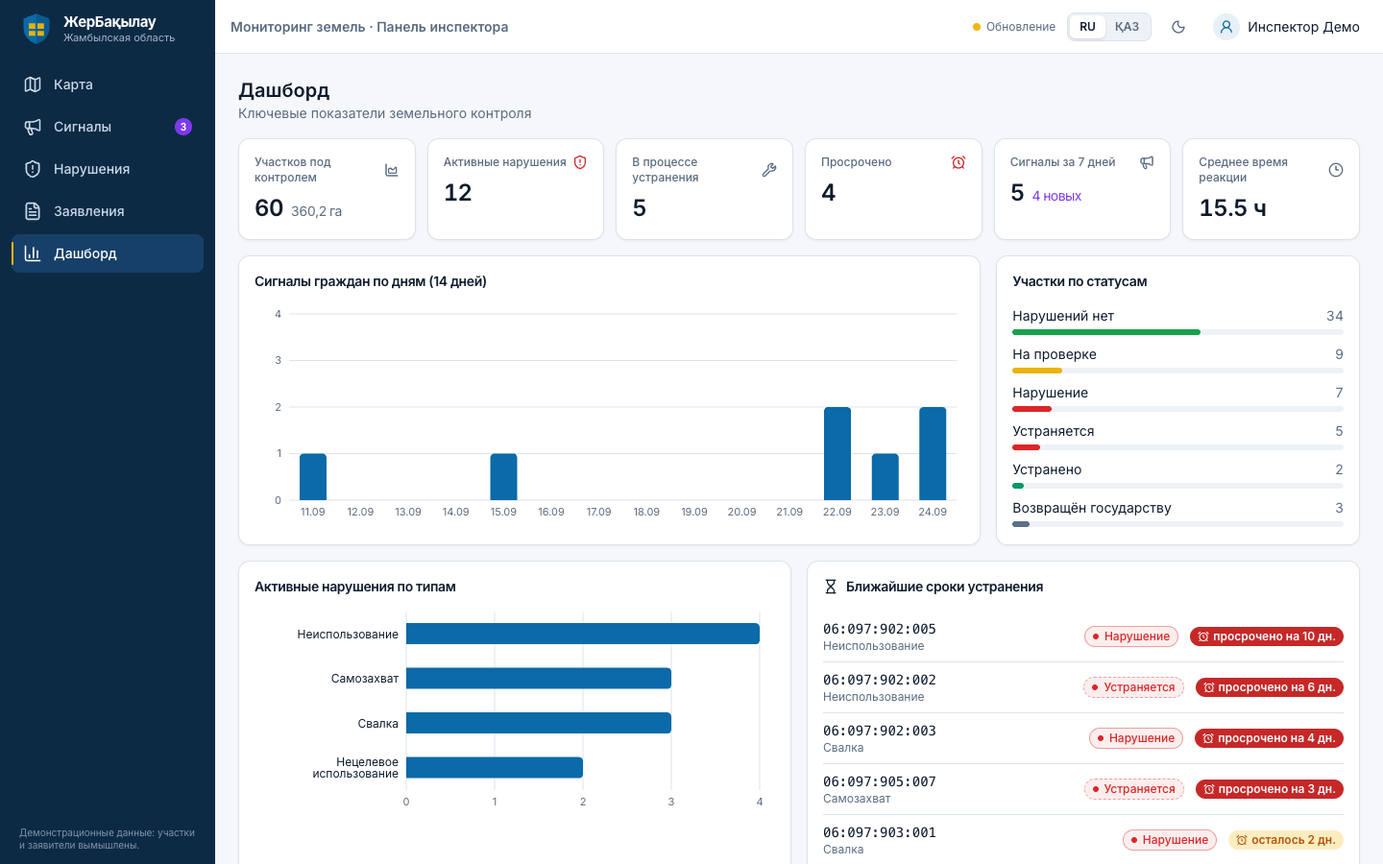
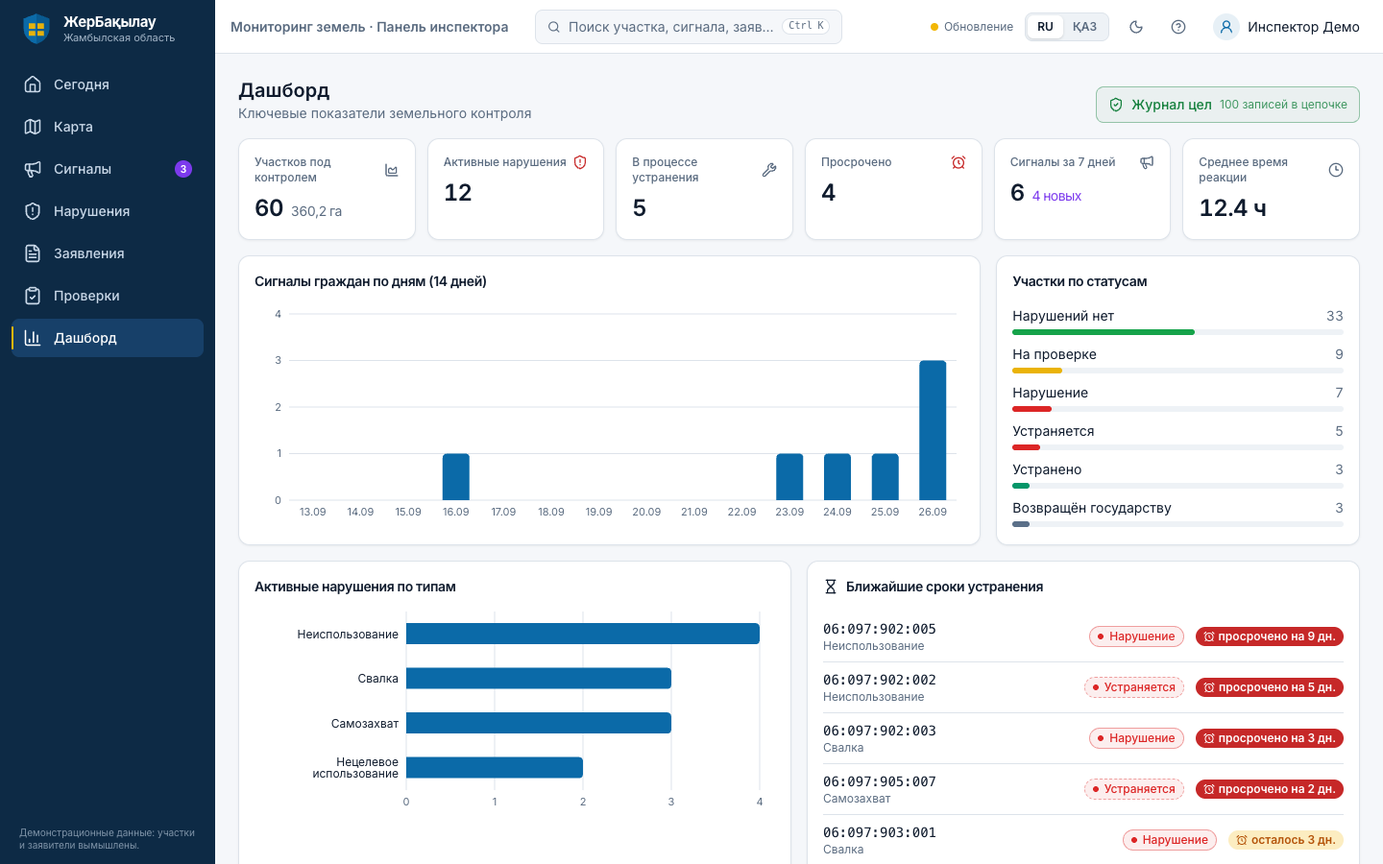
docs: полное описание проекта, план развития и передача проекта
- README: проблема и решение, сквозной цикл, все функции (панель, публичные
  страницы, бот, спутник, антифрод), что реально и что демо, стек, запуск.
- docs/HANDOFF.md: какие доступы и секреты передать, где что работает,
  первый день, деплой, подводные камни, ближайшие задачи.
- docs/ROADMAP.md: отмечено сделанное, этапы пилота обновлены по итогам работы.
- .env.example: PUBLIC_WEB_URL, SATELLITE_PROVIDER, SENTINEL_STAC_URL.
- Свежие скриншоты новых экранов.

diff --git a/docs/ROADMAP.md b/docs/ROADMAP.md
@@ -1,11 +1,25 @@
 # Дорожная карта «ЖерБақылау»
 
-Состояние на 25.09.2026: работающий MVP в проде. Есть панель инспектора (онбординг, «Сегодня», Ctrl+K,
-подсказка «Следующий шаг»), Telegram-бот RU/KZ, сквозной цикл «житель → карта → инспектор → уведомление»,
-PostGIS, PDF-акт и **реальный NDVI по снимкам Sentinel-2 L2A**.
+Состояние на **27.09.2026**: работающий MVP в проде (панель, бот, API). Приоритеты:
+- **P0** — сделать до разговора с госорганом;
+- **P1** — сильные функции для пилота;
+- **P2** — масштаб и продукт.
 
-Приоритеты: **P0** — нужно до разговора с госорганом, **P1** — сильные функции для пилота,
-**P2** — масштаб и продукт. Оценки даны для одного разработчика с Claude Code.
+Оценки даны для одного разработчика с Claude Code.
+
+---
+
+## Уже сделано
+
+| Область | Что есть |
+|---|---|
+| Панель инспектора | «Сегодня», карта с фильтрами и слоями, карточка участка, сигналы, нарушения, заявления, дашборд, туры, справка, Ctrl+K, RU/KZ, тёмная тема |
+| Бот | Статус заявления с подпиской, база знаний (3 процедуры), «Народный контроль» с фото и геолокацией, «Мои обращения», уведомления на языке жителя |
+| Гео | PostGIS: привязка к участку, дубли в 30 м, площади через geography |
+| Спутник | Реальный NDVI Sentinel-2 раз в 6 ч; **история участка за 3 года**, пики по годам, **снимки «до/после»** |
+| Антифрод (владелец) | Фотоотчёт по одноразовой ссылке: только камера, GPS на участке, свежесть, уникальность (dHash), сверка со спутником; **сверка субсидий со спутником** (демо-реестр) |
+| Антифрод (служащий) | «Устранено» только с доказательством; **журнал в цепочке SHA-256**; **реестр актов + QR-проверка** `/verify`; **риск-рейтинг и план проверок** со случайной выборкой, которую можно пересчитать |
+| Инфраструктура | Supabase (Сеул) + Railway (Сингапур) + Vercel (прокси `/api`) + Upstash; e2e smoke против прода; 81 тест API |
 
 ---
 
@@ -13,71 +27,80 @@ PostGIS, PDF-акт и **реальный NDVI по снимкам Sentinel-2 L2
 
 | # | Задача | Зачем | Оценка |
 |---|---|---|---|
-| 1.1 | Вычитка всех казахских текстов носителем языка (бот, панель, PDF, база знаний) | Государственный язык — требование по умолчанию | 2–3 дня (внешний редактор) |
+| 1.1 | Вычитка всех казахских текстов носителем языка (бот, панель, PDF, база знаний, страница владельца) | Государственный язык — требование по умолчанию | 2–3 дня (внешний редактор) |
 | 1.2 | Сверка базы знаний с актуальными регламентами egov.kz, ссылки на карточки услуг | Сейчас тексты помечены «требует сверки» | 2 дня |
-| 1.3 | Роли и районы: инспектор / руководитель / администратор; RLS и фильтр данных по району | Разграничение доступа — базовое требование ИБ | 4–5 дней |
+| 1.3 | Роли и районы: инспектор / руководитель / администратор; RLS и фильтр данных по району; «Принять отчёт» и «Возврат государству» — только руководитель (принцип четырёх глаз) | Разграничение доступа и защита от злоупотреблений | 4–5 дней |
 | 1.4 | Импорт реальных участков района (GeoJSON/Shape/GeoPackage) с проверкой геометрий и отчётом об ошибках | Работа на данных акимата вместо демо | 3 дня |
 | 1.5 | Вход по ЭЦП через NCALayer (подпись challenge → проверка сертификата и ИИН/БИН) | Стандарт для должностных лиц | 5–7 дней |
-| 1.6 | Журнал действий пользователей и экспорт журнала аудита | Проверяемость, требования ИБ | 2 дня |
-| 1.7 | План размещения в РК: казахстанское облако/ЦОД (Postgres+PostGIS, S3-хранилище), бэкапы, мониторинг | Закон о персональных данных | 3 дня на подготовку, затем переезд |
-| 1.8 | Регламент и шаблоны: предписание с номером и QR-кодом проверки подлинности, акт по утверждённой форме | Юридически значимые документы | 3–4 дня |
+| 1.6 | Подпись акта и предписания ЭЦП; ежедневная подпись головы журнала ЭЦП организации и её публикация | Юридическая значимость, журнал нельзя «переписать целиком» | 3–4 дня (после 1.5) |
+| 1.7 | Акт и предписание по утверждённой форме (номер, реквизиты, QR уже есть) | Юридически значимые документы | 2–3 дня |
+| 1.8 | Размещение в РК: казахстанское облако/ЦОД (Postgres+PostGIS, S3-хранилище), бэкапы, мониторинг | Закон о персональных данных | 3 дня на подготовку, затем переезд |
+| 1.9 | Выключить открытую регистрацию в Supabase Auth, отдельный бот для разработки | Гигиена безопасности | 1 час |
 
 **Результат этапа:** можно подписывать меморандум о бесплатном пилоте на одном районе.
 
-## Этап 2. Пилот и «вау»-функции (P1, 1–2 месяца)
+## Этап 2. Пилот (P1, 1–2 месяца)
 
 | # | Задача | Ценность |
 |---|---|---|
-| 2.1 | **NDVI-история участка**: график за сезон и за 3 года (уже хранится `ndvi_scans`) | Доказательство неиспользования: «поле не засевалось 3 сезона» |
-| 2.2 | **Снимки «до/после»**: RGB-превью Sentinel-2 по участку на две даты, прямо в карточке и в акте | Наглядность для суда и владельца |
-| 2.3 | Автоматические кандидаты: скан после каждого нового снимка → задачи на проверку на «Сегодня» | Проактивный контроль вместо ожидания жалоб |
-| 2.4 | Мобильный режим инспектора (PWA): фото с GPS на участке, работа офлайн, синхронизация | Работа в поле без ноутбука |
+| 2.1 | **Вынести тяжёлые задачи из API**: спутник и PDF — в отдельный воркер (arq/Celery на Redis) или отдельный сервис Railway | API на 512 МБ работает на пределе (см. ADR-016); воркер позволит снова читать снимки параллельно |
+| 2.2 | Отправка ссылки фотоотчёта владельцу автоматически: SMS / Telegram / eGov mobile через `NotificationProvider` | Сейчас инспектор пересылает ссылку или QR вручную |
+| 2.3 | Автоматические кандидаты: после каждого нового снимка создаются задачи на проверку в «Сегодня», план проверок формируется по расписанию (раз в неделю) | Проактивный контроль вместо ожидания жалоб |
+| 2.4 | Мобильный режим инспектора (PWA): фото с GPS на участке, работа офлайн, синхронизация; фото инспектора проходят те же проверки подлинности | Работа в поле без ноутбука |
 | 2.5 | Маршрут выездов на день: оптимальный порядок объезда проверок | Экономия времени инспектора |
-| 2.6 | Напоминания владельцам и инспекторам о сроках (SMS / Telegram / eGov mobile через `NotificationProvider`) | Меньше просрочек |
-| 2.7 | Публичная карта исправленных нарушений (без ПДн) | Доверие граждан: жалобы работают |
+| 2.6 | Напоминания владельцам и инспекторам о сроках | Меньше просрочек |
+| 2.7 | Публичная карта устранённых нарушений и открытая статистика (без ПДн) | Доверие граждан: жалобы работают |
 | 2.8 | Обращения через WhatsApp и веб-форму (тот же сервисный слой) | Охват граждан без Telegram |
+| 2.9 | Метрики честности: доля отчётов FAIL/SUSPICIOUS, доля «Устранено» по спутнику, время до решения по инспекторам | Руководитель видит аномалии в работе сотрудников |
 
-**Метрики пилота:** время от сигнала до реакции, доля дел закрытых в срок, число выявленных нарушений
-(включая найденные спутником), доля вопросов «где моё заявление», закрытых ботом.
+**Метрики пилота:**
+- время от сигнала до реакции;
+- доля дел, закрытых в срок;
+- число выявленных нарушений, в том числе найденных спутником;
+- доля отклонённых фотоотчётов;
+- доля вопросов «где моё заявление», закрытых ботом.
 
 ## Этап 3. ИИ-помощник инспектора (P1–P2)
 
 | # | Задача | Как |
 |---|---|---|
-| 3.1 | Классификация фото жителя (свалка / стройка / пустырь / нерелевантно) | Модель компьютерного зрения, порог уверенности, ручная проверка |
+| 3.1 | Классификация фото жителя и владельца (свалка / стройка / пустырь / посев / нерелевантно) | Модель компьютерного зрения; расхождение с заявлением владельца → новая проверка антифрода |
 | 3.2 | Черновик акта и предписания по фото и данным участка | LLM с шаблонами и ссылками на факты из карточки; инспектор правит и подписывает |
 | 3.3 | Ответы бота на свободные вопросы по базе знаний со ссылкой на источник | Retrieval по `packages/seed/knowledge`, только проверенные тексты |
-| 3.4 | Риск-скор участка (NDVI-тренд, сигналы, история нарушений, срок аренды) | Планирование проверок по риску |
-| 3.5 | Детекция изменений застройки по спутнику (новые строения на с/х земле) | Выявление самозахвата и нецелевого использования |
+| 3.4 | Детекция изменений застройки по спутнику (новые строения на с/х земле) | Выявление самозахвата и нецелевого использования |
+| 3.5 | Обучение весов риск-скора на результатах проверок пилота | Сейчас веса экспертные (`services/risk.py`) |
 
 ## Этап 4. Интеграции с государственными системами (P1 после пилота)
 
 | Система | Через | Что даёт |
 |---|---|---|
 | ГБД ЗКС (земельный кадастр) | ШЭП, `CadastreProvider` | Актуальные границы и правообладатели, автоматическая сверка расхождений |
+| Реестр субсидий (МСХ) | ШЭП, `SubsidyRegistry` | Настоящая сверка «заявлен посев ↔ спутник» (сейчас демо-адаптер) |
 | egov.kz / ЕСЭДО | ШЭП | Статусы реальных заявлений; бот — канал уведомлений |
-| eGov mobile | `NotificationProvider` | Уведомления гражданам без Telegram |
-| НУЦ РК / NCALayer | ЭЦП | Юридически значимые подписи актов и предписаний |
+| eGov mobile | `NotificationProvider` | Уведомления гражданам и владельцам без Telegram |
+| НУЦ РК / NCALayer | ЭЦП | Юридически значимые подписи актов, предписаний и журнала |
 | Судебные и исполнительные системы | по согласованию | Статус дел о возврате земель |
 
 ## Этап 5. Масштаб и эксплуатация (P2)
 
 - Векторные тайлы (`ST_AsMVT` / pg_tileserv) для десятков тысяч участков.
-- Очередь фоновых задач (arq/Celery на Redis): загрузка фото, спутник, рассылки.
-- Мониторинг и алерты (метрики, трассировка), резервное копирование, план аварийного восстановления.
+- Мониторинг и алерты (метрики, трассировка, Sentry), резервное копирование, план аварийного восстановления.
 - Нагрузочное тестирование, SLA, поддержка нескольких областей (мультирегион, RLS по области/району).
 - Аттестация по требованиям ИБ для государственных информационных систем.
+- Дроны для крупных с/х массивов: ортофотоплан загружается как доказательство с той же проверкой места и времени (формат GeoTIFF). Разработка своего дрона не нужна, достаточно импорта данных подрядчика.
 
 ## Бизнес-трек
 
-1. Одностраничный питч и демо-видео (3 мин по `docs/DEMO_SCRIPT.md`).
+1. Одностраничный питч и демо-видео (3 мин по `docs/DEMO_SCRIPT.md` + блок «Честность»).
 2. Меморандум о бесплатном пилоте с акиматом одного района (2–3 месяца).
 3. Отчёт по метрикам пилота → расширение на область.
 4. Модель: SaaS-подписка на район/область или лицензия + внедрение через партнёра-интегратора.
 
 ## Технический долг (сделать попутно)
 
-- Вынести значения «по умолчанию» (сроки, пороги NDVI) в настройки района.
-- E2E-тесты UI (Playwright) в CI: вход, тур, переходы статусов.
-- Отдельный бот для разработки, чтобы не пересекаться с продом.
+- Вынести значения «по умолчанию» (сроки, пороги NDVI, веса риска, лимиты антифрода) в настройки района.
+- E2E-тесты UI (Playwright) в CI: вход, тур, переходы статусов, фотоотчёт с имитацией камеры.
+- Сценарии Playwright из разработки (скриншоты, проверка антифрода) перенести в репозиторий (`apps/web/e2e`).
+- Разбить бандл веба (`maplibre`, `recharts` уже отдельно; основной чанк ~700 КБ).
 - Миграция `railway.json` на новый формат Railway (старый поддерживается до 01.12.2026).
+- Просроченные ссылки фотоотчёта переходят в «Истёк срок» только при чтении (`expire_if_due`); добавить задачу по расписанию, чтобы статус и журнал обновлялись сами.

diff --git a/docs/HANDOFF.md b/docs/HANDOFF.md
@@ -1,0 +1,104 @@
+# Передача проекта «ЖерБақылау»
+
+Документ для разработчика, который продолжает проект. Что это за продукт и какие в нём функции, описано в [README](../README.md), куда двигаться дальше — в [ROADMAP](ROADMAP.md).
+
+---
+
+## 1. Что передать (делает текущий владелец)
+
+Секреты **в git не лежат** и не должны туда попадать. Передавайте их только через менеджер паролей (1Password / Bitwarden) или зашифрованным файлом, не через чат.
+
+| Что | Как дать доступ |
+|---|---|
+| Репозиторий `Nurrss/jer-baqylau` (приватный) | `gh api -X PUT repos/Nurrss/jer-baqylau/collaborators/<github-логин> -f permission=push`, либо Settings → Collaborators |
+| Railway, проект `fretful-taste`, сервис `jer-api` | Project Settings → Members → Invite. ⚠ В проекте есть чужой сервис `jihc_voice`, его не трогать |
+| Vercel, проект `jer-baqylau` | Team → Members → Invite (или перенести проект в команду нового разработчика) |
+| Supabase, проект `sxwzidgibjpzerwoorgb` (регион Сеул) | Organization → Team → Invite |
+| Upstash Redis | Account → Team, либо просто передать `REDIS_URL` |
+| Telegram-бот `@take_a_place_bot` | BotFather → `/mybots` → Transfer ownership, либо передать токен |
+| Файл `.env.production` | Через менеджер паролей. В нём все прод-секреты (список ниже) |
+| Учётка инспектора на проде | `inspector@jer.kz` + пароль из `.env.production` (`DEMO_INSPECTOR_PASSWORD`) |
+
+**Секреты прода (только имена):** `DATABASE_URL`, `REDIS_URL`, `SUPABASE_URL`, `SUPABASE_ANON_KEY`, `SUPABASE_SERVICE_ROLE_KEY`, `SERVICE_API_KEY`, `TELEGRAM_BOT_TOKEN`, `TELEGRAM_WEBHOOK_SECRET`, `DEMO_INSPECTOR_PASSWORD`. Во фронтенд (Vercel) идут только `VITE_API_URL`, `VITE_SUPABASE_URL`, `VITE_SUPABASE_ANON_KEY`.
+
+> После передачи желательно сменить `SERVICE_API_KEY`, `TELEGRAM_WEBHOOK_SECRET` и пароль инспектора, затем переустановить вебхук: `uv run --project apps/api python scripts/set_webhook.py` с `JER_ENV_FILE=.env.production`.
+
+## 2. Где что работает
+
+| Компонент | Где | Адрес |
+|---|---|---|
+| Веб-панель + прокси `/api/*` | Vercel | https://jer-baqylau.vercel.app |
+| API + бот (вебхук) + планировщик, один контейнер | Railway, регион southeast-asia | https://jer-api-production.up.railway.app |
+| PostgreSQL + PostGIS, Auth, Storage, Realtime | Supabase, Сеул, session pooler | — |
+| Redis (FSM бота, блокировки задач спутника) | Upstash | — |
+| Спутник | Earth Search (AWS), без ключа | `SATELLITE_PROVIDER=sentinel`, скан раз в 6 ч |
+
+Панель обращается к API через тот же домен (`/api/*` → Railway, см. `apps/web/vercel.json`), потому что в некоторых сетях Казахстана `*.up.railway.app` не резолвится. Скрипты против прода тоже запускайте через `--base-url https://jer-baqylau.vercel.app`.
+
+## 3. Первый день
+
+```bash
+git clone https://github.com/Nurrss/jer-baqylau.git && cd jer-baqylau
+make setup                 # uv + npm зависимости, .env из .env.example
+make up                    # PostGIS + Redis + API в Docker, миграции и сид сами
+make dev-web               # http://localhost:5173, вход inspector@jer.kz / demo12345
+make test && make lint     # должно быть зелёным: 81 тест API + vitest, ruff, mypy, eslint
+```
+
+Дальше:
+1. Пройдите тур в панели (кнопка `?` → «Обзор платформы») и сценарий из [DEMO_SCRIPT.md](DEMO_SCRIPT.md), включая блок «Честность».
+2. Прочитайте [CLAUDE.md](../CLAUDE.md) (правила проекта), [ARCHITECTURE.md](ARCHITECTURE.md) и [DECISIONS.md](DECISIONS.md) (ADR-001…016).
+3. Положите `.env.production` в корень репозитория (он в `.gitignore`) и проверьте прод:
+   ```bash
+   JER_ENV_FILE=.env.production uv run --project apps/api python scripts/e2e_smoke.py --base-url https://jer-baqylau.vercel.app
+   JER_ENV_FILE=.env.production uv run --project apps/api python scripts/demo_reset.py --base-url https://jer-baqylau.vercel.app
+   ```
+   E2E меняет демо-данные, поэтому после него всегда делайте `demo_reset`.
+
+## 4. Как вести разработку
+
+- **Контракт API.** После любого изменения схем Pydantic или роутов запустите `make gen-types` и закоммитьте `apps/api/openapi.json` и `apps/web/src/api/schema.d.ts`. `schema.d.ts` руками не редактируется.
+- **Тексты.** Только через локализации: веб — `apps/web/src/locales/{ru,kk}.json` (тест сверяет ключи), бот, уведомления и PDF — `apps/api/app/locales/{ru,kk}/*.ftl`.
+- **Статусы** меняются только через `app/domain/state_machine.py` и `record_transition`: переход автоматически попадает в цепочку хешей журнала. Не пишите в `status_transitions` напрямую, иначе `GET /audit/verify` покажет «Журнал повреждён».
+- **Миграции** (Alembic): у CHECK-ограничений enum'ов есть соглашение об именах, поэтому при пересоздании используйте `op.f("ck_…")`, иначе получится двойной префикс.
+- **Коммиты**: Conventional Commits (`feat(api): …`, `fix(web): …`), описание на русском.
+- **Claude Code**: `CLAUDE.md` загружается автоматически и содержит все правила. Зоны A (web) и B (api) можно вести параллельными агентами.
+
+## 5. Деплой
+
+```bash
+# API (Railway): миграции применяются при старте контейнера
+railway up --service jer-api --detach
+railway logs --service jer-api          # проверить, что нет повторяющихся «Application startup complete»
+
+# Веб (Vercel)
+cd apps/web && vercel --prod
+
+# Проверка
+curl https://jer-baqylau.vercel.app/health
+```
+
+Полная инструкция с нуля (новые аккаунты) — в [DEPLOY.md](DEPLOY.md).
+
+## 6. Подводные камни (узнали на практике)
+
+| Проблема | Что знать |
+|---|---|
+| Railway игнорирует `railway.json` при сборке Railpack | Переменная `RAILWAY_DOCKERFILE_PATH=apps/api/Dockerfile` обязательна. Регион задаётся через `railway scale` |
+| **Память на Railway 512 МБ**, API в покое ~400 МБ | Тяжёлые задачи (история спутника) идут строго по одной, в один поток, с `GDAL_CACHEMAX=32`. Попытка запоминается в Redis на 30 мин. Если увеличите параллельность, будут OOM-рестарты по кругу. Правильное решение — отдельный воркер (ROADMAP 2.1) |
+| БД в Сеуле, API в Сингапуре: каждый запрос к БД ~150–200 мс | Никаких N+1: собирайте данные пакетными запросами. `pool_pre_ping` выключен намеренно |
+| Токен бота общий для локальной среды и прода | Локально держите `BOT_MODE=disabled`, иначе локальный polling сбросит вебхук прода. Для разработки лучше завести отдельного бота |
+| Тесты | Создают БД `<db>_test` на локальном PostGIS и **отказываются** работать с не-localhost БД без `TEST_DATABASE_URL`, чтобы случайно не стереть прод |
+| Скрипты против прода | Нужен `JER_ENV_FILE=.env.production`. Ключи Supabase принимаются в старом (`anon`/`service_role`) и новом (`sb_publishable`/`sb_secret`) формате |
+| Данные Sentinel-2 | Отражательная способность в Earth Search уже гармонизирована: заявленный offset −0.1 применяется, только если значения не уходят в минус (`effective_offset`) |
+| Страница владельца `/inspect` | Камера и геолокация работают только по HTTPS (на проде так и есть). В снимках с canvas нет EXIF, поэтому проверка `EXIF_GPS` = `skip` |
+| React Compiler (eslint) | Нельзя вызывать `setState` синхронно в эффектах; используйте перемонтирование через `key` или колбэки |
+| Supabase Auth | Открытая регистрация ещё включена: выключите «Allow new users to sign up». API защищён списком `INSPECTOR_EMAILS` |
+
+## 7. Открытые задачи на ближайшее время
+
+1. Выключить регистрацию в Supabase и сменить секреты после передачи (раздел 1).
+2. Вычитка казахских текстов носителем языка (ROADMAP 1.1).
+3. Вынести спутник и PDF в отдельный воркер (ROADMAP 2.1). Сейчас это самое узкое место прода.
+4. Роли «инспектор / руководитель» и принцип четырёх глаз для принятия отчётов (ROADMAP 1.3).
+5. Автоматическая отправка ссылки фотоотчёта владельцу (ROADMAP 2.2).

diff --git a/CLAUDE.md b/CLAUDE.md
@@ -1,7 +1,7 @@
 # CLAUDE.md — правила проекта «ЖерБақылау»
 
 Сервис мониторинга земель: веб-панель инспектора (React + MapLibre) и Telegram-бот для граждан (aiogram 3), общий бэкенд FastAPI + PostGIS (Supabase).
-Полное ТЗ: `PROMPT_Claude_Code_ZemKontrol.md`. План и фазы: `docs/PLAN.md`. Решения: `docs/DECISIONS.md`.
+Полное ТЗ: `PROMPT_Claude_Code_ZemKontrol.md`. План и фазы: `docs/PLAN.md`. Решения: `docs/DECISIONS.md`. Дальнейший план: `docs/ROADMAP.md`. Передача проекта, доступы и подводные камни: `docs/HANDOFF.md`.
 
 ## Язык
 - Общение с командой, документация и коммиты (описательная часть) — на русском. Идентификаторы в коде — на английском.
@@ -26,11 +26,11 @@ apps/web          React 18 + Vite + TS
 packages/seed     GeoJSON, заявления, база знаний, organizers/
 supabase          SQL: RLS, realtime publication, бакеты
 scripts           кроссплатформенные Python-скрипты (seed, demo_reset, e2e_smoke, set_webhook, gen_types)
-docs              PLAN, DECISIONS, ARCHITECTURE, API, DEPLOY, DEMO_SCRIPT
+docs              PLAN, DECISIONS, ARCHITECTURE, API, DEPLOY, DEMO_SCRIPT, ROADMAP, HANDOFF
 ```
 
 ## Зоны ответственности
-Сейчас проект ведёт один человек, но зоны сохраняются, чтобы второй мог подключиться и чтобы параллельные субагенты не конфликтовали:
+Проект передаётся следующему разработчику (см. `docs/HANDOFF.md`); зоны сохраняются, чтобы можно было работать вдвоём и чтобы параллельные субагенты не конфликтовали:
 - **A (web):** `apps/web/**`, деплой Vercel. Не трогает `apps/api`, кроме чтения `openapi.json`.
 - **B (backend+bot):** `apps/api/**`, `packages/seed/**`, `supabase/**`, `scripts/**`, деплой Railway/Supabase.
 - **Общее (меняется только осознанно, с записью в `docs/DECISIONS.md`):** контракт API (`apps/api/openapi.json`, `apps/web/src/api/schema.d.ts`), корневые конфиги, `docs/`.
